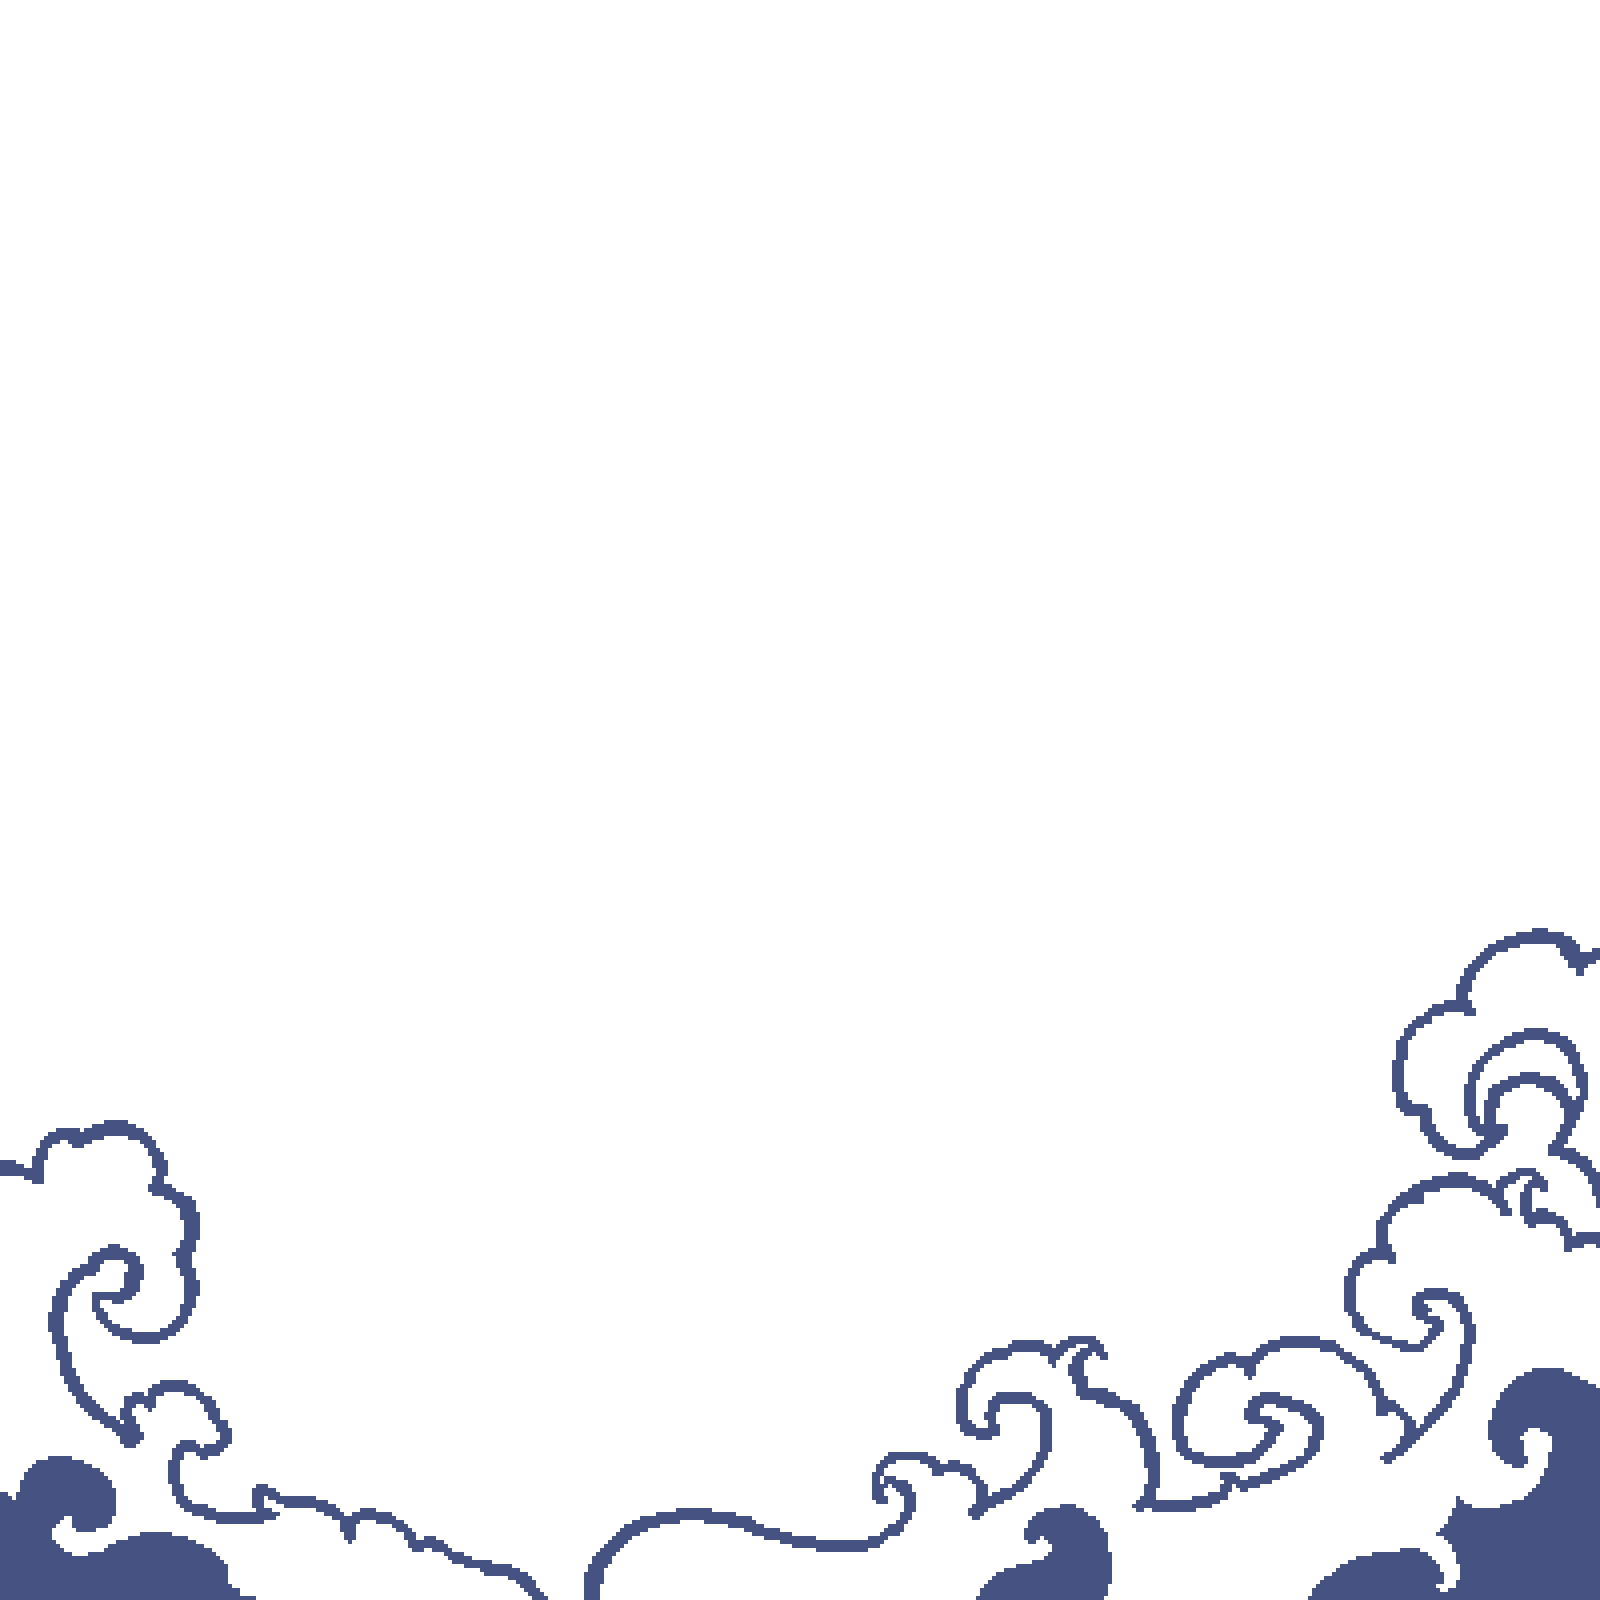
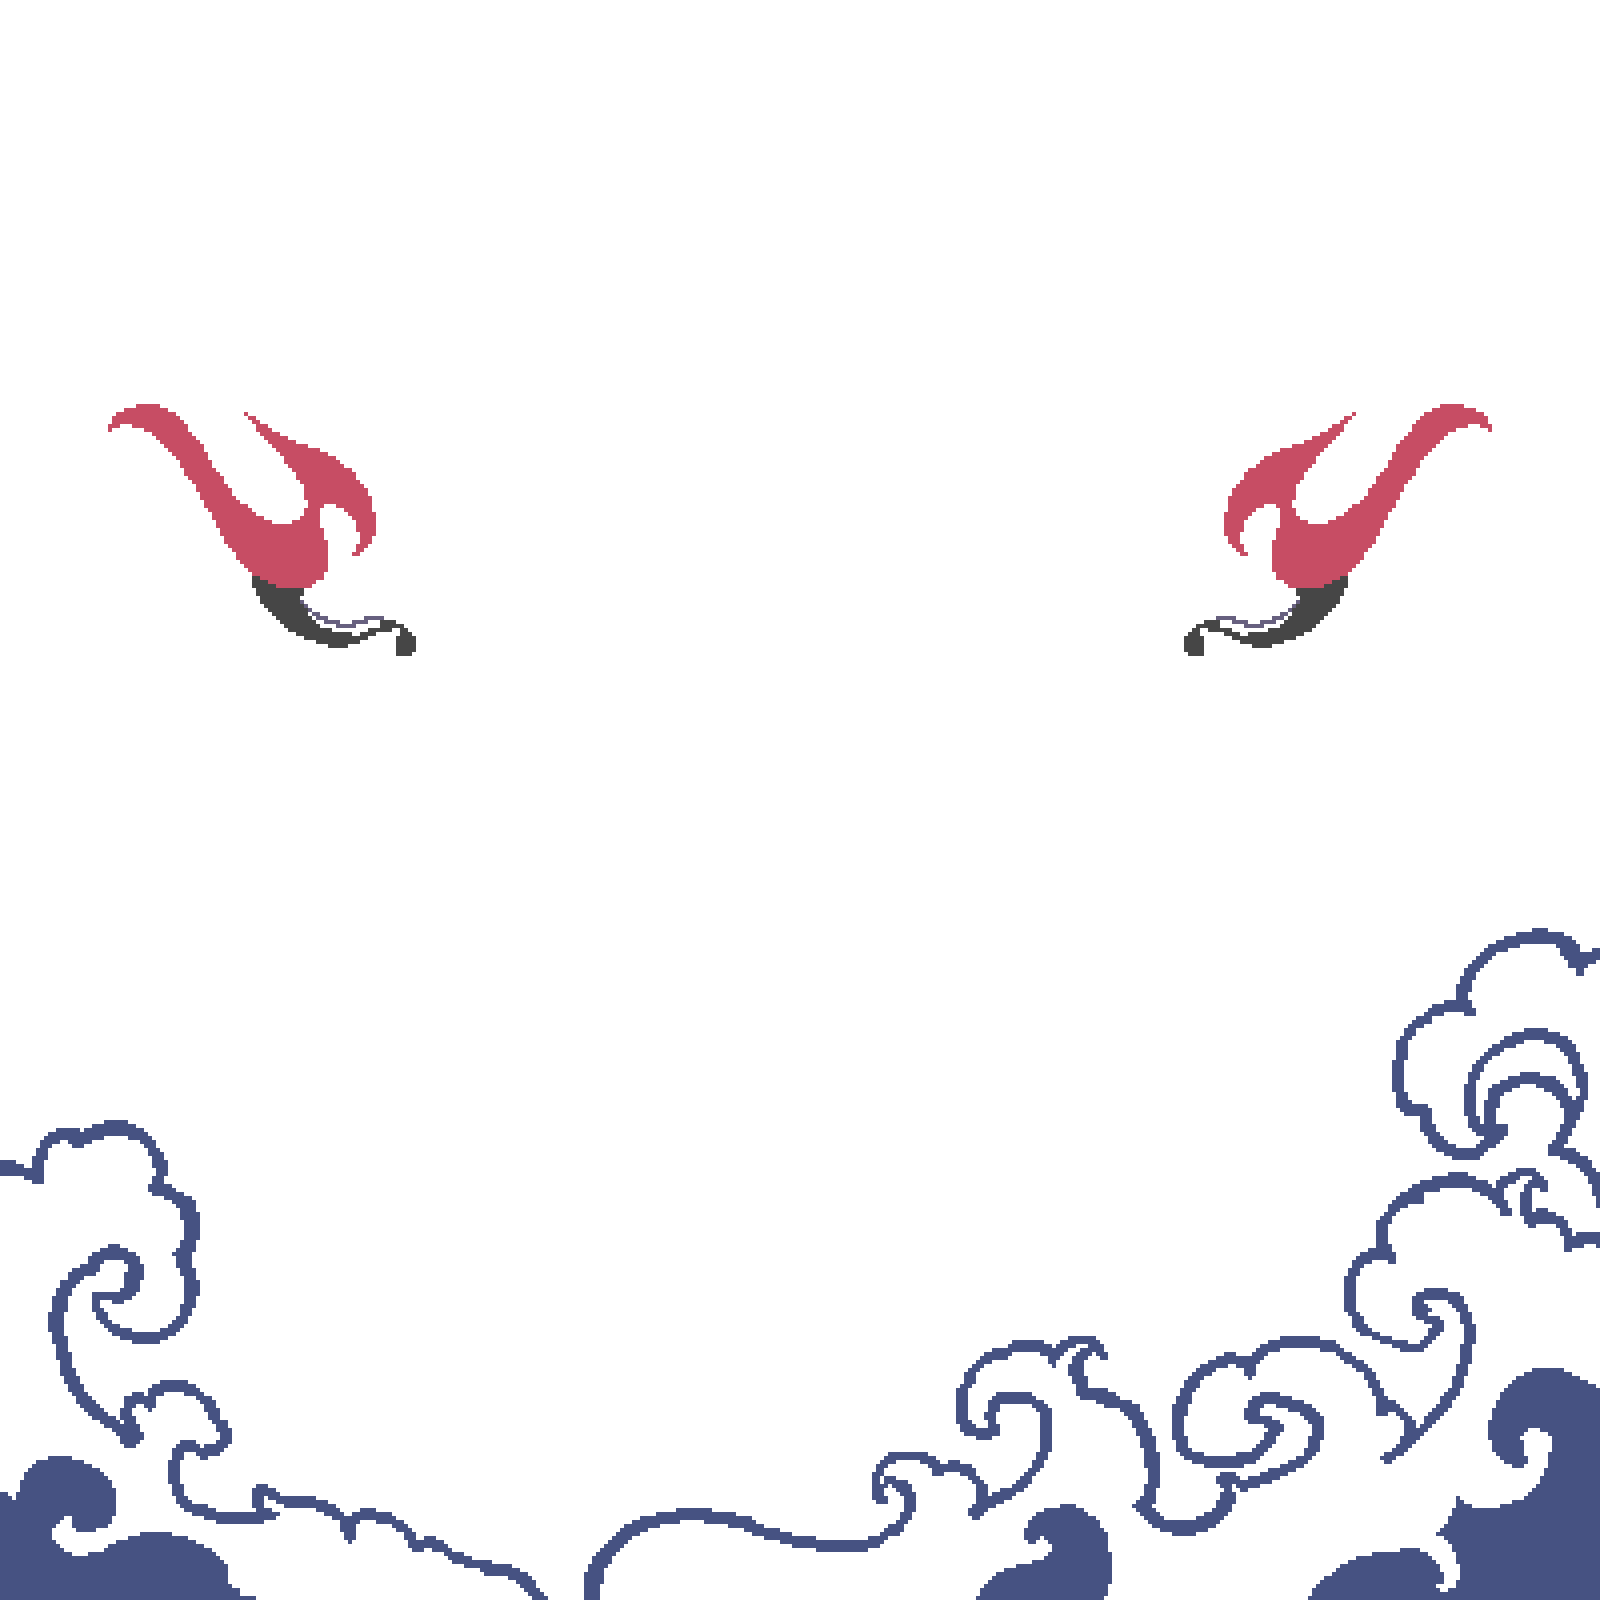
Add files via upload
mask added

Changed region(s): [[0.7188, 0.25, 0.9375, 0.4062], [0.0625, 0.25, 0.2812, 0.4062], [0.7188, 0.9062, 0.7812, 0.9688]]

diff --git a/danmari.js b/danmari.js
@@ -50,12 +50,12 @@ function preload() {
 
     imgkoimain = loadImage("koi.png");
     imgkoimain_back = loadImage("koi_purpleback.png");
-    imgkoimain_white = loadImage("koi_whiteback.png");
+    imgkoimain_white = loadImage("koi_whiteback_wing.png");
     imgfloat = loadImage("floatfront.png");
 
     imgpaper_s = loadImage("paper_small.png");
     imgpaper_l = loadImage("paper_large.png");
-    imgpaper_outlined = loadImage("paper_l_outlined.png");
+    imgpaper_outlined = loadImage("paper_l_outlined2.png");
 
     imgsakura_deep = loadImage("deepsakura.png");
     imgsakura_light = loadImage("lightsakura.png")
@@ -248,7 +248,6 @@ function draw() {
     nz_y += 0.01;
     //if(nz >= yvalues_fish.length*10){
     //    nz = 1;
-
 
     //noLoop();
 }
